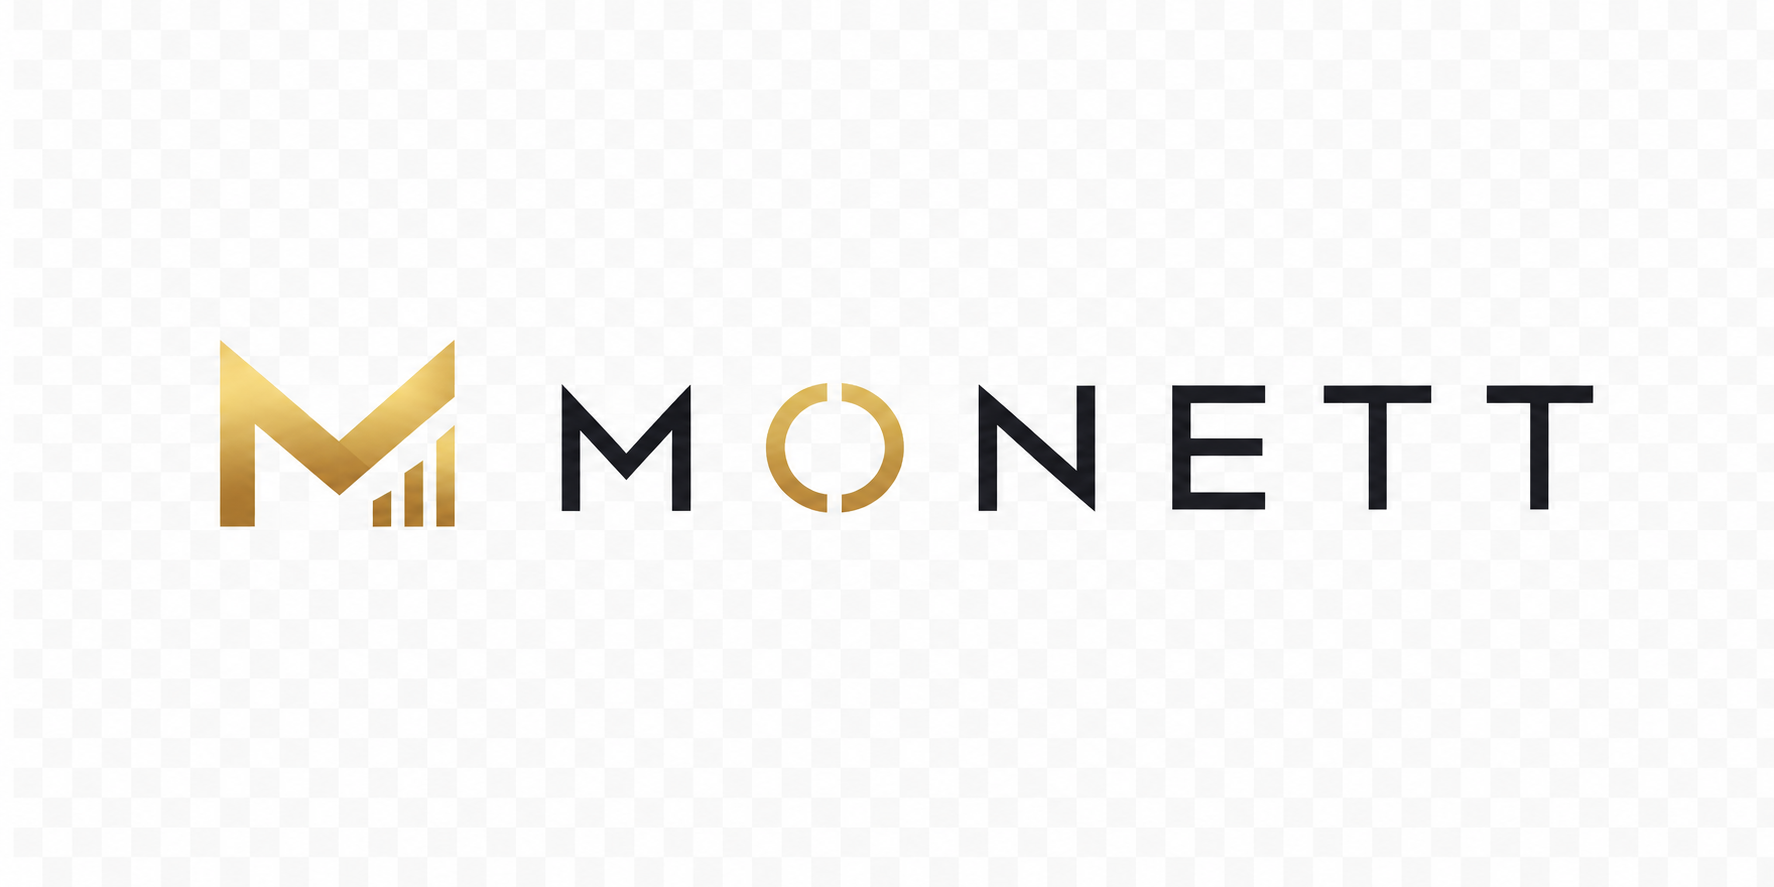
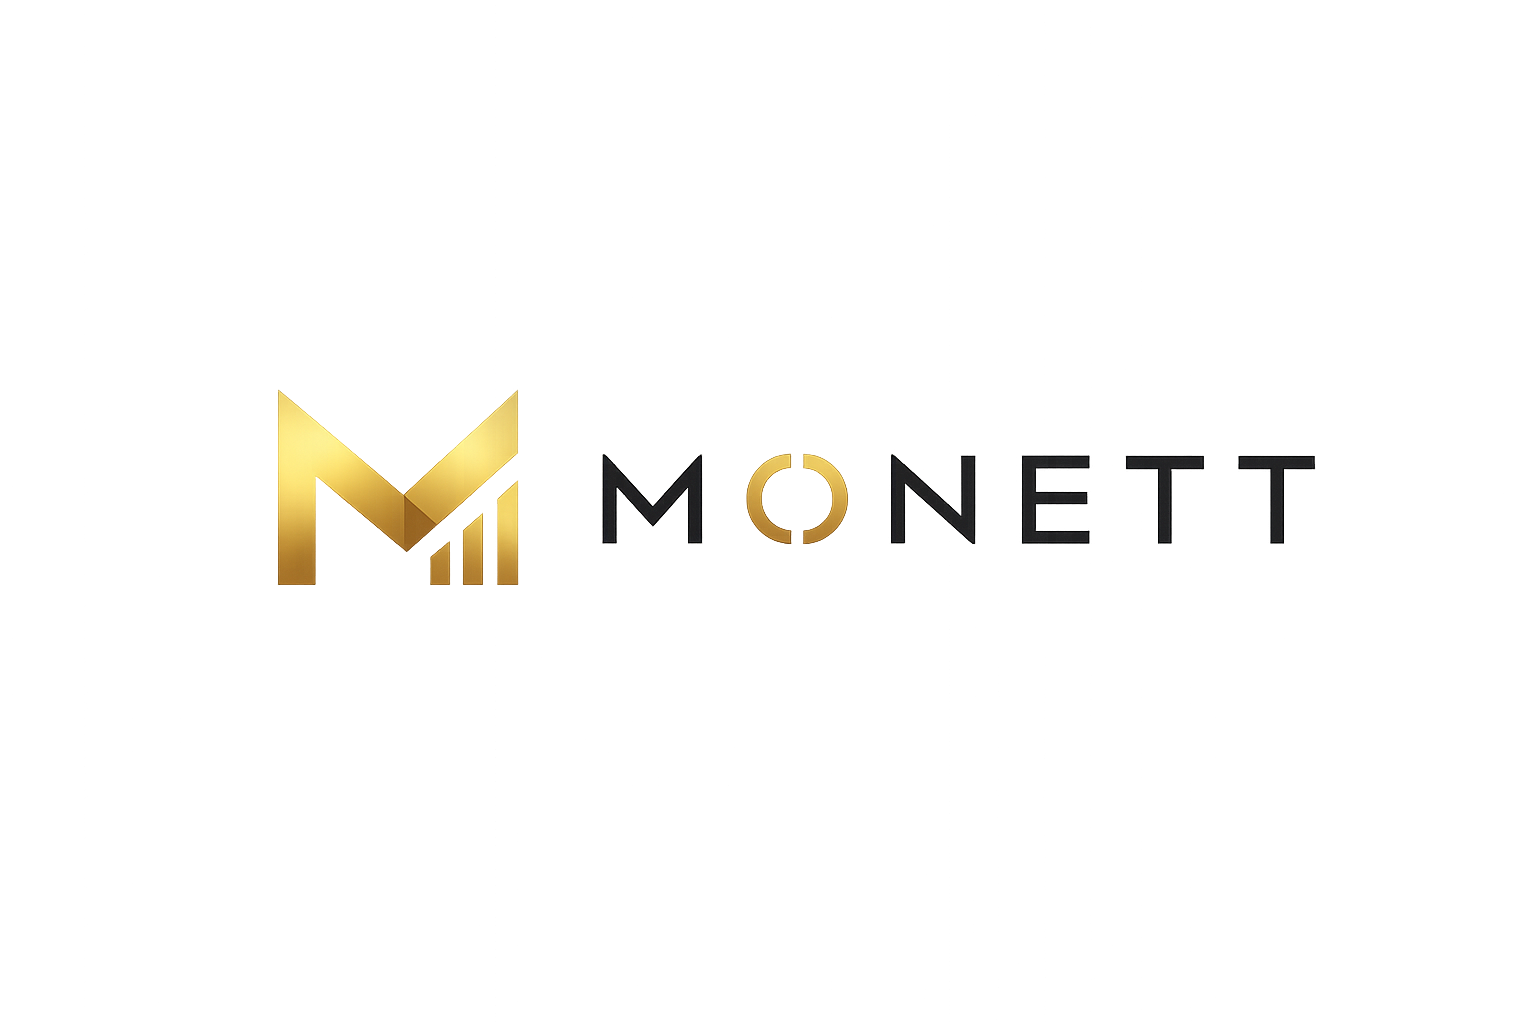
Add files via upload

Changed region(s): [[0.125, 0.3957, 0.9062, 0.6088]]

diff --git a/dashboard.html b/dashboard.html
@@ -186,7 +186,7 @@ let currentUser=null;
 
 <header>
   <div style="display:flex;align-items:center;gap:14px;flex-wrap:wrap">
-    <img src="header.png" alt="Monett" style="height:52px;object-fit:contain">
+    <img src="header.png" alt="Monett" style="height:52px;object-fit:contain;mix-blend-mode:lighten">
   </div>
   <div class="header-right">
     <button class="btn-outline" onclick="exportData()">⬇ Exportar</button>

diff --git a/index.html b/index.html
@@ -34,7 +34,7 @@
 <body>
 <div class="card">
   <div style="text-align:center;margin-bottom:16px">
-    <img src="login.png" alt="Monett" style="width:100%;max-width:320px;object-fit:contain;display:block;margin:0 auto">
+    <img src="login.png" alt="Monett" style="width:100%;max-width:320px;object-fit:contain;display:block;margin:0 auto;mix-blend-mode:lighten">
   </div>
   <p class="sub" style="text-align:center;margin-bottom:24px">Faça login para acessar seu dashboard</p>
 